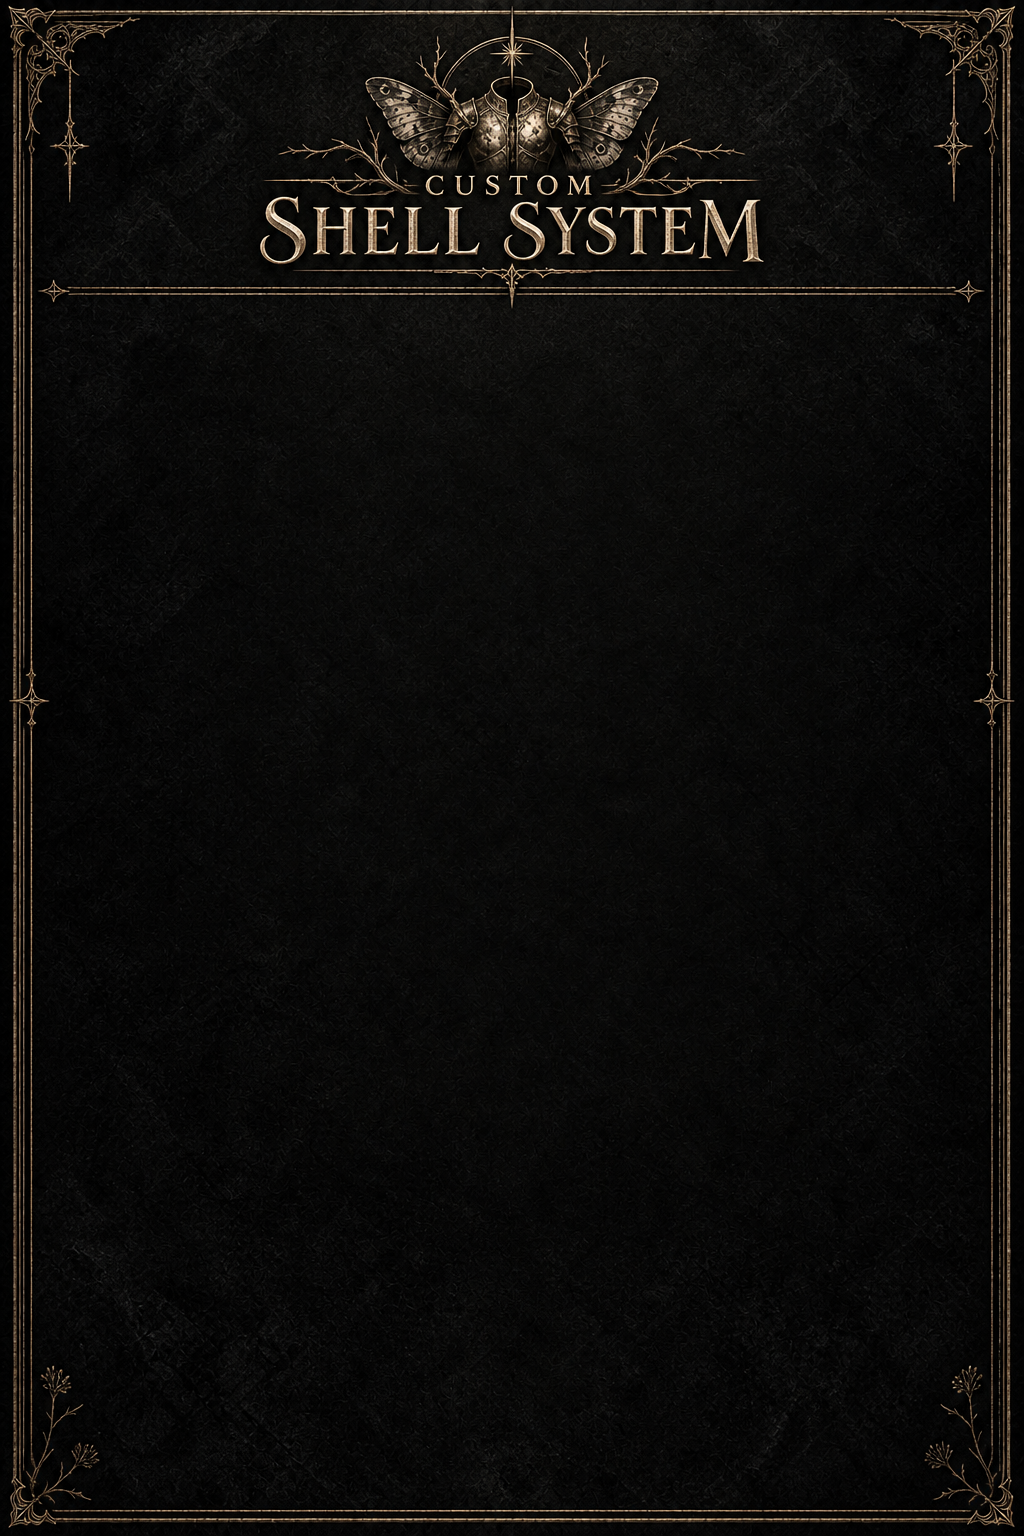
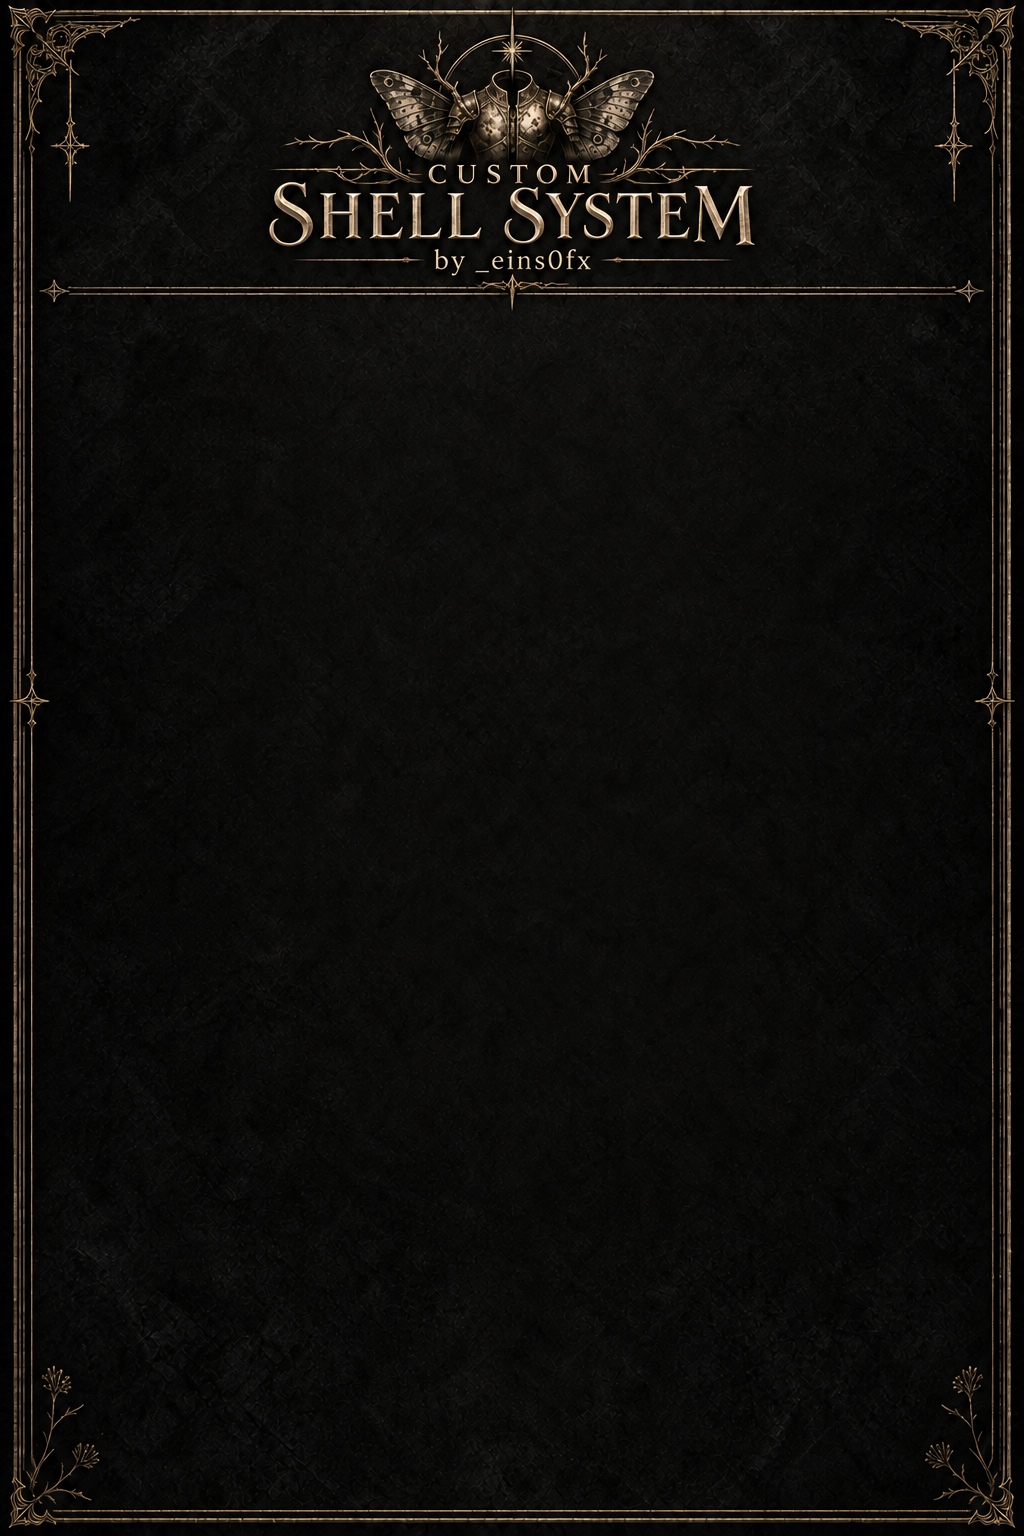
Credit _eins0fx in wardrobe artwork

diff --git a/docs/wardrobe-artwork.md b/docs/wardrobe-artwork.md
@@ -1,0 +1,12 @@
+# Wardrobe artwork
+
+`assets/wardrobe-v1.png` is the CSS interface background, credited to `_eins0fx`.
+The author-credit revision was made on 2026-09-13 using the built-in image generation tool with the previous texture as its edit reference.
+
+The final PNG remains 1024 x 1536. Its title, crest, author credit and divider fit inside the existing top 21% texture slice used by the native UI. The content area stays empty for live controls. The previous texture is preserved in the native wardrobe baseline commit.
+
+The credit identifies the CSS creator. Individual outfit authors remain separately credited through each package's metadata and thumbnail.
+
+## Edit prompt
+
+Use case: text-localization. Edit the provided Custom Shell System in-game wardrobe background asset. Preserve the original 1024x1536 portrait canvas, black textured background, thin antique gold ornate perimeter frame, moth and armor crest, the title CUSTOM / SHELL SYSTEM, and the large completely empty lower content area. Add a tasteful legible centered author credit with exact text "by _eins0fx" directly beneath SHELL SYSTEM, inside the top header and above the horizontal gold divider at approximately y=292. The leading underscore in _eins0fx is essential. Refine the spacing within the existing top header to accommodate this credit: slightly reduce the crest/title group height if necessary, keep the divider at the same height, keep all lettering balanced and crisp, muted pale gold small elegant serif credit subordinate to the title, about 22-26 pixels tall. Keep the header within the top 20 percent of the image. Do not add menu controls, other labels, extra text, or new decorative elements in the content area. Production-ready flat UI texture, not a mockup.
